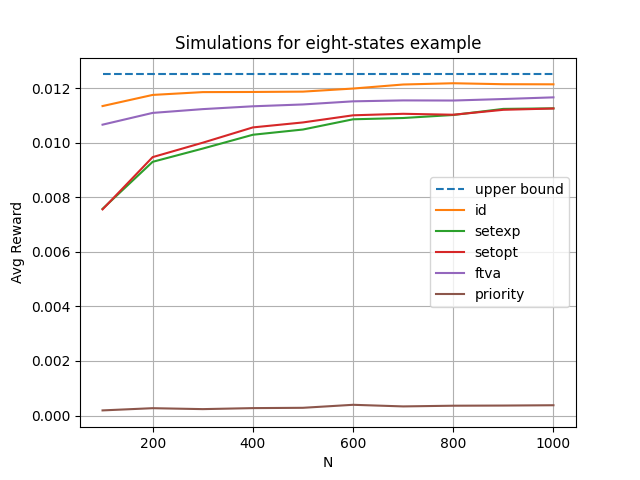
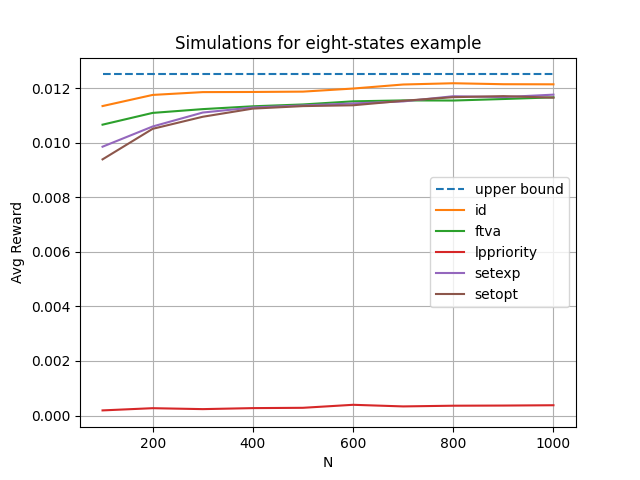
Multiplied 0.5 to the L1 norm in the set-update constraint; implemented a version of set-optimization policy with L1 norm constraint replaced by other linear constraints, to take even larger focus sets.

diff --git a/experiments2.py b/experiments2.py
@@ -9,14 +9,17 @@ from matplotlib import pyplot as plt
 import matplotlib as mpl
 
 
-def run_policies(setting_name, policy_name, init_method, T):
+def run_policies(setting_name, policy_name, init_method, T, setting_path=None):
     if setting_name == "eight-states":
-        probs_L, probs_R, action_script, suggest_act_frac = rb_settings.ConveyorExample.get_parameters("eg4action-gap-tb", 8)
+        probs_L, probs_R, action_script, suggest_act_frac = rb_settings.ConveyorExample.get_parameters(
+            "eg4action-gap-tb", 8)
         setting = rb_settings.ConveyorExample(8, probs_L, probs_R, action_script, suggest_act_frac)
     elif setting_name == "three-states":
         setting = rb_settings.Gast20Example2()
     elif setting_name == "non-sa":
         setting = rb_settings.NonSAExample()
+    elif setting_path is not None:
+        setting = rb_settings.ExampleFromFile(setting_path)
     else:
         raise NotImplementedError
     act_frac = setting.suggest_act_frac
@@ -40,7 +43,7 @@ def run_policies(setting_name, policy_name, init_method, T):
     # exit()
 
     reward_array = np.nan * np.empty((num_reps, len(Ns)))
-    for i,N in enumerate(Ns):
+    for i, N in enumerate(Ns):
         for rep in range(num_reps):
             if init_method == "random":
                 init_states = np.random.choice(np.arange(0, setting.sspa_size), N, replace=True)
@@ -52,7 +55,7 @@ def run_policies(setting_name, policy_name, init_method, T):
             total_reward = 0
             conformity_count = 0
             non_shrink_count = 0
-            focus_set =np.array([], dtype=int)
+            focus_set = np.array([], dtype=int)
 
             if policy_name == "id":
                 policy = IDPolicy(setting.sspa_size, y, N, act_frac)
@@ -69,7 +72,8 @@ def run_policies(setting_name, policy_name, init_method, T):
                 policy = SetExpansionPolicy(setting.sspa_size, y, N, act_frac)
                 for t in range(T):
                     cur_states = rb.get_states()
-                    focus_set, non_shrink_flag = policy.get_new_focus_set(cur_states=cur_states, last_focus_set=focus_set)
+                    focus_set, non_shrink_flag = policy.get_new_focus_set(cur_states=cur_states,
+                                                                          last_focus_set=focus_set)
                     actions, conformity_flag = policy.get_actions(cur_states, focus_set)
                     conformity_count += conformity_flag
                     non_shrink_count += non_shrink_flag
@@ -96,8 +100,18 @@ def run_policies(setting_name, policy_name, init_method, T):
                     #     print("t={}\ns_fracs={}".format(t, s_fracs))
                     #     print("focus set size before rounding={}, after rounding={}".format(policy.m.value*N, len(focus_set)))
                     #     print("conformity count = {}".format(conformity_count))
+            elif policy_name == "setopt-tight":
+                policy = SetOptPolicy(setting.sspa_size, y, N, act_frac, W)
+                for t in range(T):
+                    cur_states = rb.get_states()
+                    focus_set = policy.get_new_focus_set(cur_states=cur_states, subproblem="tight") ##
+                    actions, conformity_flag = policy.get_actions(cur_states, focus_set)
+                    conformity_count += conformity_flag
+                    instant_reward = rb.step(actions)
+                    total_reward += instant_reward
             elif policy_name == "ftva":
-                policy = FTVAPolicy(setting.sspa_size, setting.trans_tensor, setting.reward_tensor, y=y, N=N, act_frac=act_frac, init_virtual=None)
+                policy = FTVAPolicy(setting.sspa_size, setting.trans_tensor, setting.reward_tensor, y=y, N=N,
+                                    act_frac=act_frac, init_virtual=None)
                 for t in range(T):
                     prev_state = rb.get_states()
                     actions, virtual_actions = policy.get_actions(prev_state)
@@ -116,7 +130,8 @@ def run_policies(setting_name, policy_name, init_method, T):
                 raise NotImplementedError
             avg_reward = total_reward / T
             reward_array[rep, i] = avg_reward
-            print("setting={}, policy={}, N={}, rep_id={}, avg reward = {}".format(setting_name, policy_name, N, rep, avg_reward))
+            print("setting={}, policy={}, N={}, rep_id={}, avg reward = {}".format(setting_name, policy_name, N, rep,
+                                                                                   avg_reward))
 
         with open("fig_data/{}-{}-N{}-{}-{}".format(setting_name, policy_name, Ns[0], Ns[-1], init_method), 'wb') as f:
             setting_and_data = {
@@ -137,23 +152,24 @@ def run_policies(setting_name, policy_name, init_method, T):
             }
             pickle.dump(setting_and_data, f)
 
+
 def figure_from_multiple_files():
-    settings = ["eight-states"] #["eight-states", "three-states"]  #["eight-states", "three states", "non-sa"]
-    policies = ["id", "setexp", "setopt", "ftva", "lppriority"] # ["id", "setexp", "setopt", "ftva", "lppriority"]
+    settings = ["eight-states", "three-states", "non-sa"] + ["random-size-3-uniform-({})".format(i) for i in range(5)]  # ["eight-states", "three-states", "non-sa"]
+    policies = ["id", "ftva", "lppriority", "setexp", "setopt"]  # ["id", "setexp", "setopt", "ftva", "lppriority"]
     reward_array_dict = {}
-    Ns = np.array(list(range(100,1100,100)))
-    init_method = "same"
+    Ns = np.array(list(range(100, 1100, 100)))
+    init_method = "random"
 
     for setting_name in settings:
         for policy_name in policies:
             if (policy_name in ["id", "setexp", "setopt"]) or \
-                    ((setting_name, policy_name) in [("non-sa", "ftva"), ("non-sa", "lppriority")]):
-                with open("fig_data/{}-{}-N{}-{}-{}".format(setting_name, policy_name, 100, 1000, "same"), 'rb') as f:
+                    (setting_name not in ["eight-states", "three-states"]):
+                with open("fig_data/{}-{}-N{}-{}-{}".format(setting_name, policy_name, 100, 1000, init_method), 'rb') as f:
                     setting_and_data = pickle.load(f)
                     reward_array_dict[(setting_name, policy_name)] = setting_and_data["reward_array"]
                     print(setting_name, policy_name, reward_array_dict[(setting_name, policy_name)])
 
-    temp_name_suffix = "bad" if init_method=="same" else "random"
+    temp_name_suffix = "bad" if init_method == "same" else "random"
     with open("fig_data/Formal-{}-N{}-{}-{}".format("Figure2Example", 100, 1100, temp_name_suffix), 'rb') as f:
         setting_and_data = pickle.load(f)
         reward_array_dict[("eight-states", "ftva")] = setting_and_data["sp_avg_rewards"]
@@ -161,28 +177,35 @@ def figure_from_multiple_files():
         setting_and_data = pickle.load(f)
         reward_array_dict[("eight-states", "lppriority")] = setting_and_data["lp_avg_rewards"]
 
-    # ### warning: initialization method of this simulation is different; but I guess that do not affect the result
-    # with open("fig_data/Formal-{}-N{}-{}-{}".format("Figure1Example", 100, 1100, "default"), 'rb') as f:
-    #     setting_and_data = pickle.load(f)
-    #     reward_array_dict[("three-states", "ftva")] = setting_and_data["sp_avg_rewards"]
-    # with open("fig_data/Formal-{}-N{}-{}-{}".format("Figure1Example", 100, 1100, "default"), 'rb') as f:
-    #     setting_and_data = pickle.load(f)
-    #     reward_array_dict[("three-states", "lppriority")] = setting_and_data["wip_avg_rewards"]
+    ### warning: initialization method of this simulation is different; but I guess that do not affect the result
+    with open("fig_data/Formal-{}-N{}-{}-{}".format("Figure1Example", 100, 1100, "default"), 'rb') as f:
+        setting_and_data = pickle.load(f)
+        reward_array_dict[("three-states", "ftva")] = setting_and_data["sp_avg_rewards"]
+    with open("fig_data/Formal-{}-N{}-{}-{}".format("Figure1Example", 100, 1100, "default"), 'rb') as f:
+        setting_and_data = pickle.load(f)
+        reward_array_dict[("three-states", "lppriority")] = setting_and_data["wip_avg_rewards"]
 
     for setting_name in settings:
         if setting_name == "eight-states":
-            plt.plot(Ns, np.array([0.0125]*len(Ns)), label="upper bound", linestyle="--")
+            upper_bound = 0.0125
         elif setting_name == "three-states":
-            plt.plot(Ns, np.array([0.12380016733626052]*len(Ns)), label="upper bound", linestyle="--")
+            upper_bound = 0.12380016733626052
         elif setting_name == "non-sa":
-            plt.plot(Ns, np.array([1]*len(Ns)), label="upper bound", linestyle="--")
+            upper_bound = 1
+        else:
+            with open("fig_data/{}-{}-N{}-{}-{}".format(setting_name, "id", 100, 1000, init_method), 'rb') as f:
+                setting_and_data = pickle.load(f)
+                upper_bound = setting_and_data["upper bound"]
+        plt.plot(Ns, np.array([upper_bound] * len(Ns)), label="upper bound", linestyle="--")
         for policy_name in policies:
-            plt.plot(Ns, np.average(reward_array_dict[(setting_name, policy_name)], axis=0), label=policy_name, linewidth=1.5)
+            plt.plot(Ns, np.average(reward_array_dict[(setting_name, policy_name)], axis=0), label=policy_name,
+                     linewidth=1.5)
             plt.xlabel("N", fontsize=10)
         plt.title("Simulations for {} example".format(setting_name))
         plt.xticks(fontsize=10)
         plt.ylabel("Avg Reward", fontsize=10)
         plt.yticks(fontsize=10)
+        # plt.ylim([0, 1.1*upper_bound]) ###
         plt.grid()
         plt.legend()
         plt.savefig("figs2/{}-N{}-{}-{}".format(setting_name, Ns[0], Ns[-1], init_method))
@@ -190,8 +213,18 @@ def figure_from_multiple_files():
 
 
 if __name__ == "__main__":
-    # for setting_name in ["eight-states"]:   #["eight-states", "three-states", "non-sa"]:
-    #     for policy_name in ["id", "setexp", "setopt"]:
-    #         run_policies(setting_name, policy_name, "same", 10000)
-    figure_from_multiple_files()
-    # run_policies("eight-states", "id", "same", 1000)
+    for setting_name in ["eight-states", "three-states", "non-sa"]:   #["eight-states", "three-states", "non-sa"]:
+        for policy_name in ["setopt-tight"]:
+            run_policies(setting_name, policy_name, "random", 10000)
+    #
+    # # ## random examples
+    # for i in range(5):
+    #     setting_path = "setting_data/random-size-3-uniform-({})".format(i)
+    #     setting = rb_settings.ExampleFromFile(setting_path)
+    #     rb_settings.print_bandit(setting)
+    #     setting_name = "random-size-3-uniform-({})".format(i)
+    #     for policy_name in ["setexp", "setopt"]:
+    #         run_policies(setting_name, policy_name, "random", 10000, setting_path)
+
+    # figure_from_multiple_files()
+

diff --git a/discrete_RB.py b/discrete_RB.py
@@ -764,11 +764,12 @@ class SetExpansionPolicy(object):
         assert np.all(np.isclose(np.sum(self.policy, axis=1), 1.0, atol=1e-4)), \
             "policy definition wrong, the action probs do not sum up to 1, policy = {} ".format(self.policy)
 
-        self.cpibs = self.policy[:,1]
-        self.ratiocw = np.sqrt(np.matmul(self.cpibs.T, np.linalg.solve(self.W, self.cpibs)))
-        print("W=", self.W)
-        print("cpibs=", self.cpibs)
-        print("ratiocw=", self.ratiocw)
+        if W is not None:
+            self.cpibs = self.policy[:,1]
+            self.ratiocw = np.sqrt(np.matmul(self.cpibs.T, np.linalg.solve(self.W, self.cpibs)))
+            print("W=", self.W)
+            print("cpibs=", self.cpibs)
+            print("ratiocw=", self.ratiocw)
 
     def get_new_focus_set(self, cur_states, last_focus_set, subproblem="L1"):
         """
@@ -791,7 +792,8 @@ class SetExpansionPolicy(object):
 
         if subproblem == "L1":
             cur_m = len(last_focus_set)/self.N
-            cur_delta = self.beta*(1-cur_m) - np.linalg.norm(s_count_scaled_fs - cur_m * self.state_probs, ord=1)
+            ## 0617 update: multiply 0.5 in the L1 norm
+            cur_delta = self.beta*(1-cur_m) - 0.5*np.linalg.norm(s_count_scaled_fs - cur_m * self.state_probs, ord=1)
             constrs = []
             non_shrink_flag = 0
             if cur_delta > 0:
@@ -804,7 +806,8 @@ class SetExpansionPolicy(object):
             constrs.append(self.m == cp.sum(self.z))
             constrs.append(self.z - self.m*self.state_probs <= self.d)
             constrs.append(- self.z + self.m*self.state_probs <= self.d)
-            constrs.append(cp.sum(self.d) <= self.beta * (1-self.m))
+            ## 0617 update: multiply 0.5 in the L1 norm
+            constrs.append(0.5*cp.sum(self.d) <= self.beta * (1-self.m))
             objective = cp.Maximize(self.m)
             problem = cp.Problem(objective, constrs)
             problem.solve()
@@ -813,6 +816,7 @@ class SetExpansionPolicy(object):
         elif subproblem == "W":
             cur_m = len(last_focus_set)/self.N
             x_minus_mmu = s_count_scaled_fs - cur_m * self.state_probs
+            ## todo: check if it also needs to multiply by 2 here
             cur_delta = self.beta*(1-cur_m) - self.ratiocw * np.sqrt(np.matmul(np.matmul(x_minus_mmu.T, self.W), x_minus_mmu))
             constrs = []
             non_shrink_flag = 0
@@ -941,6 +945,10 @@ class SetOptPolicy(object):
         self.m = cp.Variable()
         self.d = cp.Variable(self.sspa_size)
         self.f = cp.Variable()
+        self.lam_up = cp.Variable()
+        self.lam_low = cp.Variable()
+        self.gamma_up = cp.Variable(self.sspa_size)
+        self.gamma_low = cp.Variable(self.sspa_size)
         self.s_count_scaled = cp.Parameter(self.sspa_size)
         self.beta = cp.Parameter()
         self.beta = min(act_frac, 1-act_frac)
@@ -985,7 +993,8 @@ class SetOptPolicy(object):
             constrs.append(self.m == cp.sum(self.z))
             constrs.append(self.z - self.m*self.state_probs <= self.d)
             constrs.append(- self.z + self.m*self.state_probs <= self.d)
-            constrs.append(cp.sum(self.d) <= self.beta * (1-self.m))
+            ## 0617 update: multiply 0.5 in front of the L1 norm
+            constrs.append(0.5*cp.sum(self.d) <= self.beta * (1-self.m))
             objective = cp.Minimize(self.f + (self.Lw+0.1)*(1 - self.m))
             problem = cp.Problem(objective, constrs)
             problem.solve()
@@ -995,6 +1004,7 @@ class SetOptPolicy(object):
             #     self.m.value, self.z.value, self.m.value*self.state_probs, self.d.value, self.f.value))
         elif subproblem == "W":
             constrs = []
+            ## todo: check if it also needs to multiply by 0.5 here
             constrs.append(cp.SOC(self.beta*(1-self.m)/self.ratiocw, self.W_sqrt @ (self.z - self.m * self.state_probs)))
             constrs.append(self.z <= self.s_count_scaled)
             constrs.append(self.z >= 0)
@@ -1010,6 +1020,25 @@ class SetOptPolicy(object):
             constrs.append(self.m == cp.sum(self.z))
             constrs.append(np.matmul(self.cpibs.T, self.z) <= self.act_frac)
             constrs.append(np.matmul(self.cpibs.T, self.z) >= self.act_frac - (1-self.m))
+            objective = cp.Minimize(self.f + (self.Lw+0.1)*(1 - self.m))
+            problem = cp.Problem(objective, constrs)
+            problem.solve()
+        elif subproblem == "tight":
+            constrs = []
+            # second order cone constraint: norm{sqrt(W) @ (z- m * mu)}_2 <= self.f
+            constrs.append(cp.SOC(self.f, self.W_sqrt @ (self.z - self.m * self.state_probs)))
+            constrs.append(self.z <= self.s_count_scaled)
+            constrs.append(self.z >= 0)
+            constrs.append(self.m == cp.sum(self.z))
+            # future budget requirement upper bound
+            constrs.append(self.act_frac*self.lam_up + cp.sum(self.gamma_up) <= self.act_frac)
+            constrs.append(self.state_probs*self.lam_up + self.gamma_up >= self.z)
+            constrs.append(self.gamma_up >= 0)
+            # future budget requirement lower bound
+            constrs.append(self.act_frac*self.lam_low + cp.sum(self.gamma_low) + (1-self.m) >= self.act_frac)
+            constrs.append(self.state_probs*self.lam_low + self.gamma_low <= self.z)
+            constrs.append(self.gamma_low >= 0)
+            # objective
             objective = cp.Minimize(self.f + (self.Lw+0.1)*(1 - self.m))
             problem = cp.Problem(objective, constrs)
             problem.solve()
@@ -1104,7 +1133,8 @@ class SetOptPolicy(object):
             constrs.append(self.m == cp.sum(self.z))
             constrs.append(self.z - self.m*self.state_probs <= self.d)
             constrs.append(- self.z + self.m*self.state_probs <= self.d)
-            constrs.append(cp.sum(self.d) <= self.beta * (1-self.m))
+            ## 0617 update: multiply 0.5 in from of the L1 norm
+            constrs.append(0.5*cp.sum(self.d) <= self.beta * (1-self.m))
             objective = cp.Minimize(self.f + (self.Lw+0.1)*(1 - self.m))
             problem = cp.Problem(objective, constrs)
             problem.solve()

diff --git a/draft.py b/draft.py
@@ -59,10 +59,10 @@ def test_W_solver():
 
 
 def test_run_policies():
-    # probs_L, probs_R, action_script, suggest_act_frac = rb_settings.ConveyorExample.get_parameters("eg4action-gap-tb", 8)
-    # setting = rb_settings.ConveyorExample(8, probs_L, probs_R, action_script, suggest_act_frac)
+    probs_L, probs_R, action_script, suggest_act_frac = rb_settings.ConveyorExample.get_parameters("eg4action-gap-tb", 8)
+    setting = rb_settings.ConveyorExample(8, probs_L, probs_R, action_script, suggest_act_frac)
     # setting = rb_settings.Gast20Example2()
-    setting = rb_settings.NonSAExample()
+    # setting = rb_settings.NonSAExample()
     N = 1000
     act_frac = setting.suggest_act_frac
 
@@ -131,10 +131,10 @@ def test_run_policies():
     # print("non-shrinking count = {}".format(non_shrink_count))
     for t in range(T):
         cur_states = rb.get_states()
-        # focus_set = setopt_policy.get_new_focus_set(cur_states=cur_states) ###
-        # actions, conformity_flag = setopt_policy.get_actions(cur_states, focus_set)
-        focus_set, focus_set_outer = setopt_policy.get_new_focus_set_two_stage(cur_states=cur_states) ###
-        actions, conformity_flag = setopt_policy.get_actions_two_stage(cur_states, focus_set, focus_set_outer)
+        focus_set = setopt_policy.get_new_focus_set(cur_states=cur_states) ###
+        actions, conformity_flag = setopt_policy.get_actions(cur_states, focus_set)
+        # focus_set, focus_set_outer = setopt_policy.get_new_focus_set_two_stage(cur_states=cur_states) ###
+        # actions, conformity_flag = setopt_policy.get_actions_two_stage(cur_states, focus_set, focus_set_outer)
         conformity_count += conformity_flag
         instant_reward = rb.step(actions)
         total_reward += instant_reward

diff --git a/rb_settings.py b/rb_settings.py
@@ -94,6 +94,8 @@ class RandomExample(object):
         P1 = P1 / np.sum(P1, axis=1, keepdims=True)
         self.trans_tensor = np.stack([P0, P1], axis=1) # dimensions (state, action, next_state)
         self.reward_tensor = np.stack([R0, R1], axis=1) # dimensions (state, action)
+        # make sure alpha is not too close to 0 or 1
+        self.suggest_act_frac = np.random.uniform(0.1,0.9)
 
         if verbose:
             print("P0 = ", P0)
@@ -112,6 +114,7 @@ class ExampleFromFile(object):
         self.trans_tensor = data_dict["trans_tensor"]
         self.reward_tensor = data_dict["reward_tensor"]
         self.distr = data_dict["distr"]
+        self.suggest_act_frac = data_dict["suggest_act_frac"]
 
 
 class ConveyorExample(object):
@@ -281,14 +284,21 @@ def save_bandit(setting, f_path, other_params):
     data_dict = {"sspa_size": setting.sspa_size,
          "trans_tensor": setting.trans_tensor,
          "reward_tensor": setting.reward_tensor,
-         "distr": setting.distr
+         "distr": setting.distr,
+         "suggest_act_frac": setting.suggest_act_frac
          }
-    data_dict.update(other_params)
+    if other_params is not None:
+        data_dict.update(other_params)
     with open(f_path, 'wb') as f:
         pickle.dump(data_dict, f)
 
 
 if __name__ == '__main__':
-    example1 = Gast20Example1()
-    print(example1.trans_tensor[0, 1,:])
-    print(example1.reward_tensor[1, 1])
+    # generate and save some random settings
+    np.random.seed(114514)
+    sspa_size = 3
+    distr = "uniform"
+    for i in range(5):
+        setting = RandomExample(sspa_size, distr)
+        f_path = "setting_data/random-size-{}-{}-({})".format(sspa_size, distr, i)
+        save_bandit(setting, f_path, None)
